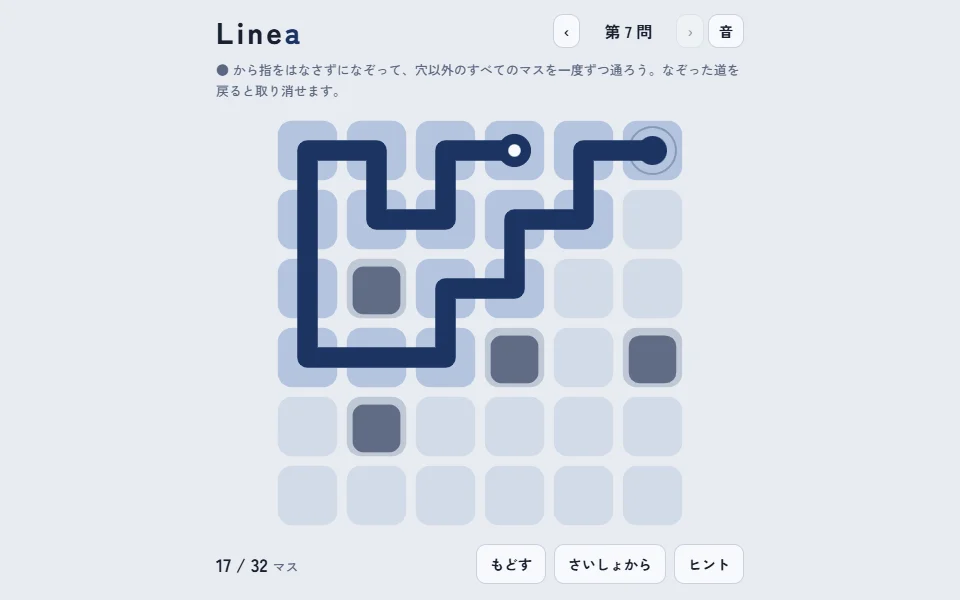
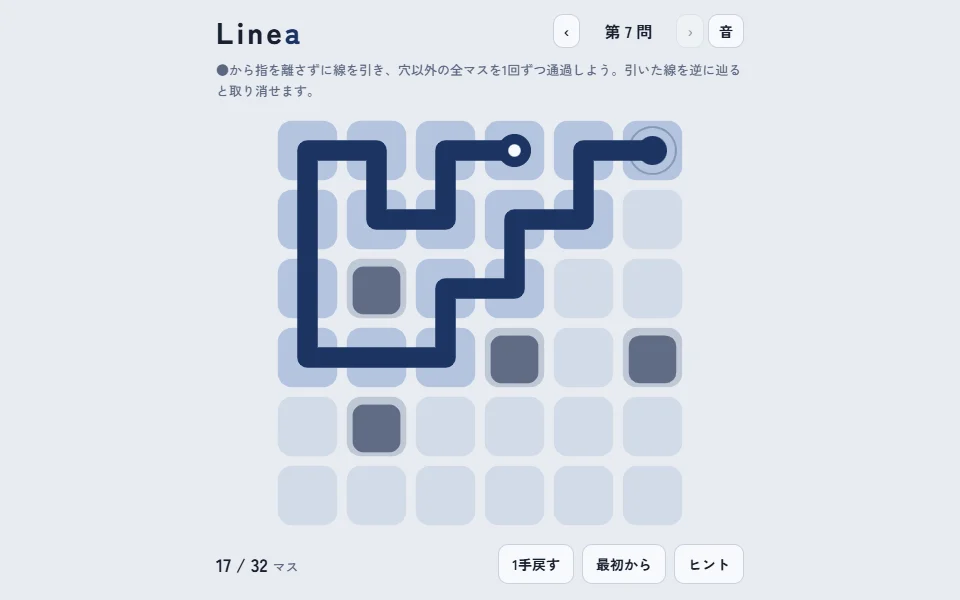
Lineaのカードの説明を漢字表記にして画像を撮り直し

Changed region(s): [[0.2188, 0.09, 0.7812, 0.18], [0.5, 0.93, 0.6562, 0.96]]

diff --git a/index.html b/index.html
@@ -102,9 +102,9 @@ footer a:hover{border-color:var(--text)}
       <div class="shot"><img src="shots/linea.webp" alt="Lineaのプレイ画面。穴のあいた盤面に一筆書きの道が途中まで引かれている" width="960" height="600" loading="lazy"></div>
       <div class="body">
         <div class="title-row"><h2>Linea</h2><span class="genre">パズル</span></div>
-        <p class="desc">● からなぞって、穴以外の全部のマスを一度ずつ通る一筆書き。問題は無限に続き、進むほど盤面が広く、穴が多くなる。</p>
+        <p class="desc">●から線を引き、穴以外の全マスを1回ずつ通る一筆書き。問題は無限に続き、進むほど盤面が広く、穴が増える。</p>
         <ul class="meta">
-          <li><span>操作</span><b>なぞる</b></li>
+          <li><span>操作</span><b>指・マウスで線を引く</b></li>
           <li><span>1問</span><b>約1分</b></li>
         </ul>
         <span class="play">遊ぶ</span>
